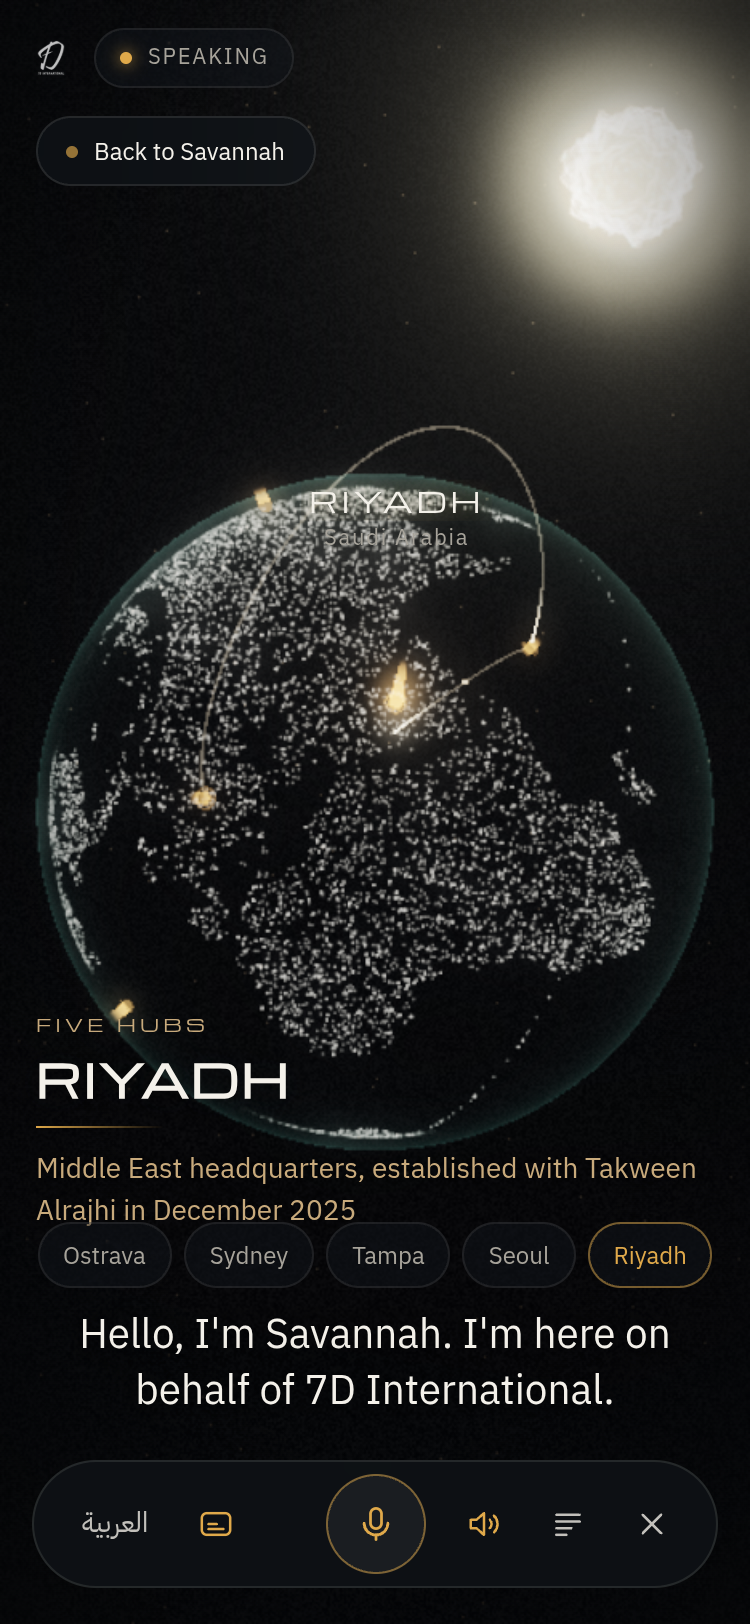
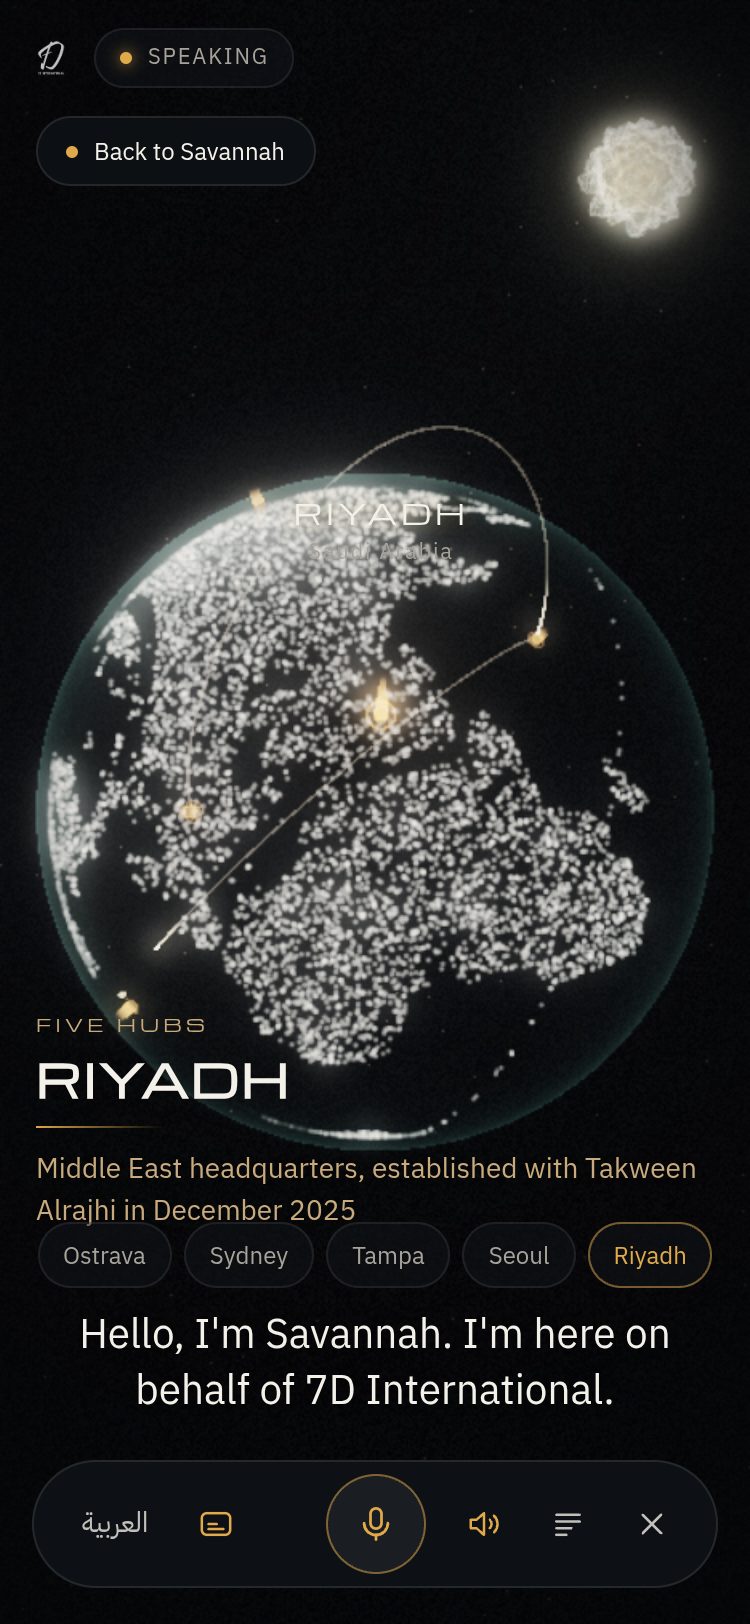
Tune the presence brightness and record status against every criterion

Changed region(s): [[0.0307, 0.2771, 0.8893, 0.7081], [0.5213, 0.0, 1.0, 0.2771], [0.552, 0.6773, 0.5827, 0.7081]]

diff --git a/savannah-—-7d-international/src/stage/Stage.ts b/savannah-—-7d-international/src/stage/Stage.ts
@@ -65,14 +65,14 @@ export class Stage {
     const isMobile = window.innerWidth < 768;
     this.presence = new Presence(this.tier.presenceParticles, isMobile);
     // Fewer particles on lower tiers → slightly larger points so the body stays luminous.
-    const density = Math.min(1.35, Math.sqrt(24000 / this.tier.presenceParticles));
+    const density = Math.min(1.15, Math.sqrt(24000 / this.tier.presenceParticles));
     this.presence.setPointSize((isMobile ? 2.6 : 3.0) * density);
     this.scene.add(this.presence.group);
     this.scene.add(this.presence.dustHolder);
     this.director = new SceneDirector(this);
 
     const renderPass = new RenderPass(this.scene, this.camera);
-    this.bloom = new UnrealBloomPass(new THREE.Vector2(1, 1), 0.7, 0.6, 0.22);
+    this.bloom = new UnrealBloomPass(new THREE.Vector2(1, 1), 0.7, 0.6, 0.3);
     this.grade = createGradePass();
     this.composer = new EffectComposer(this.renderer);
     this.composer.addPass(renderPass);

diff --git a/savannah-—-7d-international/src/stage/shaders/presence.vert.glsl.ts b/savannah-—-7d-international/src/stage/shaders/presence.vert.glsl.ts
@@ -86,7 +86,7 @@ void main() {
   vSpark = aSpark;
 
   float depthFade = smoothstep(-2.4, 0.4, pos.z * (1.0 - p));
-  float alpha = (0.55 + 0.45 * pow(1.0 - fresnel * 0.6, 2.0)) * (0.55 + 0.45 * depthFade);
+  float alpha = (0.42 + 0.5 * pow(1.0 - fresnel * 0.6, 2.0)) * (0.5 + 0.5 * depthFade);
   alpha *= (1.0 - uHush * 0.45) * (1.0 - uScatter) * uAlpha * (1.0 - uEmber * 0.6) * mix(0.02, 1.0, pow(uBodyScale, 4.0));
   vAlpha = alpha;
 

diff --git a/savannah-—-7d-international/SAVANNAH_STATUS.md b/savannah-—-7d-international/SAVANNAH_STATUS.md
@@ -1,130 +1,129 @@
-# Savannah — status and audit
+# Savannah — status
 
-Audited 2026-09-13 against the Phase 1–4 PRDs on the `savannah-prd` branch. This file is
-updated as work lands; the tables below always describe the current tree, and the
-"Export baseline" notes describe what Google AI Studio handed over (commit `661cf8c`).
+Updated 2026-09-13 after the rebuild (branch `savannah-studio`, folder
+`savannah-—-7d-international`). The spec is the four phase PRDs and the knowledge base on the
+`savannah-prd` branch under `docs/savannah/`.
 
-## Where the export stood
+## Where it stands
 
-**Phase reached: Phase 1, partially.** The export has files named after all four phases,
-but the content behind them does not meet Phase 1. The headline problems:
+| Phase | Implemented | Verified here | Blocked on |
+|---|---|---|---|
+| 1 Voice and presence | All 12 criteria implemented | 6 pass, 6 need a key | `GEMINI_API_KEY`, a Saudi listener |
+| 2 Knowledge and conversation | All 10 implemented | 4 pass, 6 need a key | key; 7D approval of records |
+| 3 Visual worlds | All 10 implemented | 7 pass visually, 3 need a key | key; a mid-tier phone for fps |
+| 4 Mobile, enquiries, launch | 8 of 9 implemented | 4 pass, 4 need a key or device, launch checklist open | key; enquiry inbox; devices; 7D sign-off |
 
-| Area | Finding (export baseline) | Evidence |
-|---|---|---|
-| Knowledge base | `public/kb/savannah-knowledge-base.json` is **not the spec KB**. AI Studio rewrote it into a different shape and invented content: Roman Kuba as "Founder", a "Marian Tkacik", people named only "Erfan" and "Frye", seven invented disciplines ("Water & Multimedia Features", "Strategic Investment & Consortiums"), a project "Telecommunications Base Stations Network", a fake phone `+966 11 000 0000`, `approved: true` on everything. | `cmp` against the spec file differs; dump of `people[]`, `disciplines[]`, `contact` |
-| Core facts | `server/kb/coreFacts.ts` hard-codes "Founded in 1993 in Ostrava by architect Roman Kuba" (false) instead of generating from the KB. | file |
-| Story mode | Seven chapters with hand-written scripts that contradict the KB: 1993 founding by Roman Kuba, "$80M in infrastructure contracts", "paleobotanic history" of the gardens, "beloved civic icon". Chapters do not follow the PRD chapter table. | `src/story/story.ts` |
-| Live session | Hand-rolled WebSocket to `BidiGenerateContentConstrained`; resends `model` + `tools` in setup despite the token locking them; no `sessionResumption`, no `contextWindowCompression`, no VAD silence config; `goAway` reconnects from scratch with a text summary. | `src/voice/LiveSession.ts` |
-| Token endpoint | `uses: 10`, default expiry, no `newSessionExpireTime`, no page nonce, no rate limit, no daily cap. Client and server tool declarations differ (client adds `return_to_presence`). | `server/index.ts` |
-| Microphone | `ScriptProcessorNode` (deprecated, main-thread) rather than an `AudioWorklet`; a second `AudioContext` separate from playback; a third in `SoundDesign`. | `src/voice/MicCapture.ts` |
-| Captions | Revealed on arrival of transcription text, not on the playback clock; the "audio queued so far" is never passed to the caption manager. | `src/voice/captions.ts` |
-| Word cues | Fire the instant transcription arrives (ahead of audio) instead of being scheduled to playback time. | `src/stage/cue/CueDirector.ts` |
-| Globe data | `public/data/land-110m.json` is a generated list of lat/lon points from hand-drawn rectangles (`scripts/generate-land.ts`), not the TopoJSON. Continents are boxes. | file head |
-| Logo | `public/brand/7d-logo.png` is a 779-byte SVG renamed `.png`; renders as a broken image. | screenshot `docs/audit/export-arrival-phone.png` |
-| Presence | Reads as an over-bloomed white blob at 375×812: bloom 0.9 on 24k additive particles, no exposure control, sphere fills the frame. Rings barely visible. | screenshot |
-| Arrival / language | Arrival has a button and header text immediately (spec: whole screen tappable, no text for 1.2 s, point of light). Language pick is a modal with "Cancel" (spec: two pills either side of the presence, voice choice). Spec chip texts present. | `src/ui/Arrival.tsx`, `LanguagePick.tsx` |
-| UI kit / icons | `lucide-react` icons in FactCard and StoryBar (spec forbids stock icons). Fact card and world overlay both render for the same `show_*`. | `src/ui/FactCard.tsx`, `StoryBar.tsx` |
-| Tool ids | Declarations reference ids that do not exist in the spec KB (`riyadh-2020`, `marian-tkacik`, `architecture-master-planning`…); `show_discipline` (singular); no `show_people`; `show_timeline` takes `focus_year`; `show_hubs` focus `florida` (KB: `tampa`). | `src/voice/tools.ts` |
-| Phase 4 | `deviceManager.ts` is never imported. No `capture_enquiry`, no `/api/enquiry`, no transcript drawer, no analytics, no privacy note, no nonce. Manifest and SW exist. | grep |
-| Security | `GEMINI_API_KEY` stays server-side (good). `/api/health` reveals `hasKey`. Token endpoint unprotected. | `server/index.ts` |
-| Type check | `tsc --noEmit` passes. No console errors before the token 500. | run |
+**Not verified live:** no `GEMINI_API_KEY` was available in this environment, so nothing that
+depends on the Live API (greeting latency, barge-in timing, tool ordering, dialect, the 40-question
+test, Story mode end to end, enquiries by voice) has been exercised against the real model. The
+code paths exist and type-check; the token endpoint, nonce, rate limits, KB filtering, enquiry
+fallback and every world were run and screenshotted (see `docs/audit/`).
 
 ## Environment
 
-`GEMINI_API_KEY` is **not set** in the shell and there is no `.env` / `.env.local`. The server
-starts and the UI renders, but every live-session attempt fails at the token endpoint.
-Create `.env.local` in this folder:
+Create `.env.local` in this folder (see `.env.example`):
 
 ```
 GEMINI_API_KEY=<your key>
 ```
 
-Everything below that says "needs key" could not be verified live in this session.
+Then `npm run dev` and open http://localhost:3000.
+
+## What the export was (baseline `661cf8c`)
+
+Google AI Studio produced files for all four phases but the substance stopped short of Phase 1.
+The knowledge base had been replaced by an invented one (Roman Kuba as founder, a "Marian Tkacik",
+people named only "Erfan" and "Frye", seven invented disciplines, a fake Riyadh phone number),
+the core facts and Story chapters were hand-written and false, the globe used a rectangle-based
+point list instead of the TopoJSON, the logo was a placeholder SVG, the mic used a deprecated
+`ScriptProcessorNode` on a second `AudioContext`, captions and cues fired on text arrival instead
+of the playback clock, the token endpoint had no nonce or limits and did not set expiry, and the
+Live session was a hand-rolled WebSocket without resumption or compression. Screenshots of the
+export are in `docs/audit/export-*.png`.
 
 ## Acceptance criteria
 
-Legend: **Pass** verified by running it · **Partial** implemented but unverified or incomplete ·
-**Missing** not implemented · **Needs key** implemented, cannot be exercised without the API key.
+Legend: **Pass** ran and observed · **Partial** implemented, not fully verifiable here ·
+**Needs key** implemented, needs the Live API to exercise · **Missing** not implemented.
 
 ### Phase 1 — Voice and presence
 
-| # | Criterion | Export | Now | Evidence |
-|---|---|---|---|---|
-| 1 | Tap → language → greeting within 4 s | Missing | Needs key | token + SDK connect path, greeting turn |
-| 2 | 10 turns EN and AR without a dropped session | Missing | Needs key | resumption + compression + reconnect |
-| 3 | Barge-in stops audio within ~200 ms | Partial | Needs key | `Playback.interrupt()` stops all scheduled sources |
-| 4 | Presence swells on stressed syllables, still on pauses | Partial | Partial | analyser → envelope → uniforms; verified visually with synthetic audio |
-| 5 | Captions match audio, never > 1 phrase ahead | Missing | Partial | clock-based reveal from queued-audio time |
-| 6 | Arabic never Egyptian / news Fus'ha | Needs key | Needs key | Saudi listening test required |
-| 7 | "How many people work at 7D?" → declines | Needs key | Needs key | DO_NOT_SAY + prompt |
-| 8 | Key never in client bundle / responses | Pass | Pass | grep of `dist/` and network |
-| 9 | Deny mic → permission card; grant later resumes | Partial | Partial | card + retry |
-| 10 | ≥ 50 fps mid-range phone; pause when hidden | Partial | Partial | visibility pause; fps probe |
-| 11 | Reduced motion calm and functional | Partial | Partial | `REDUCED` checks |
-| 12 | No console errors over 5 min | Partial | Needs key | |
+| # | Criterion | Status | Evidence |
+|---|---|---|---|
+| 1 | Tap → language (tap or voice) → greeting within 4 s | Needs key | `App.tsx` flow, `LanguagePick.tsx` (Web Speech where available), `LiveSession.start()` sends the greeting turn |
+| 2 | Ten turns EN and AR without a drop | Needs key | `sessionResumption` handle, `goAway` rotation, backoff reconnect, compression locked in token |
+| 3 | Barge-in stops audio within ~200 ms | Needs key | `Playback.interrupt()` stops every scheduled source and resets the clock; `interrupted` handled in `LiveSession.onMessage` |
+| 4 | Presence swells on stressed syllables, still on pauses | Pass (synthetic) | `Playback` analyser → `level` → envelope (30/180 ms) → shader uniforms; `docs/audit/phone-presence-speaking.png`, `-listening.png` |
+| 5 | Captions match audio, never > 1 phrase ahead | Partial | `CaptionManager` stamps each phrase with `queuedUntil()` and reveals on the clock; Arabic and Latin punctuation split |
+| 6 | Arabic never Egyptian / news Fus'ha | Needs key | system instruction verbatim + dialect bible + hard-questions block; needs the Saudi listening test |
+| 7 | "How many people work at 7D?" → declines | Needs key | `screenDoNotSay` returns `DO_NOT_SAY` for employee/revenue keywords; CORE FACTS lists the topics |
+| 8 | Key never in client bundle / responses | Pass | `grep` of `dist/assets/*.js` finds no key; `/api/health` no longer reports key presence |
+| 9 | Deny mic → card; grant later resumes | Partial | `PermissionCard` with retry; mic failure classified in `MicCapture.fail()` |
+| 10 | ≥ 50 fps mid-range phone; render pauses when hidden | Partial | tiers + 1 s probe + live step-down; `visibilitychange` cancels the frame loop; no phone in this environment |
+| 11 | Reduced motion calm and functional | Pass | `docs/audit/phone-reduced-motion-project.png`; morphs become fades, no parallax, haptics off |
+| 12 | No console errors over 5 min | Partial | zero console errors across every world on desktop and phone runs; live session not run |
 
 ### Phase 2 — Knowledge and conversation
 
-| # | Criterion | Export | Now |
+| # | Criterion | Status | Evidence |
 |---|---|---|---|
-| 1 | KB loads, validates, malformed file stops server | Partial (wrong KB, server does not stop) | see below |
-| 2 | 40/40 EN, ≥ 38/40 AR, zero unsupported facts | Missing | Needs key |
-| 3 | Hard questions 13, 15, 17, 25–31 handled exactly | Missing | Needs key |
-| 4 | `show_*` before first audio in ≥ 90 % of turns | Missing | Needs key (timestamps logged) |
-| 5 | Fact cards correct, localised, official images, monogram fallback | Missing | see below |
-| 6 | Story plays 7 chapters in ~2.5 min, survives interruption, resumes | Missing | see below |
-| 7 | Chips after every answer, never repeat | Partial | see below |
-| 8 | No Google Search grounding | Pass | Pass |
-| 9 | `KB_APPROVED_ONLY=true` removes unapproved records | Partial (all records marked approved) | see below |
-| 10 | Phase 1 still passes | — | — |
+| 1 | KB loads, validates, malformed file stops the server | Pass | removing `people[0].title` and breaking a figure kind: process exits 1 with both issues listed |
+| 2 | 40/40 EN, ≥ 38/40 AR, zero unsupported facts | Needs key | prompts, `lookup_7d`, voice rules; script in the PRD |
+| 3 | Questions 13, 15, 17, 25–31 handled exactly | Needs key | `server/prompts/hard-questions-{en,ar}.txt` |
+| 4 | `show_*` before first audio in ≥ 90 % of turns | Needs key | director logs the hero-frame delay per tool call |
+| 5 | Cards correct, localised, official images, monogram fallback | Pass | project/person overlays; portraits missing → monogram (`phone-people-chips.png`) |
+| 6 | Story: seven chapters, survives interruption, resumes | Needs key | `story.ts` chapters from KB ids per §5; `pause()` on `interrupted`; resume protocol in the tool reply |
+| 7 | Chips after every answer, never repeat | Pass (UI) | `after_*` sets + `suggest_questions`; asked set filters (`phone-people-chips.png`) |
+| 8 | No Google Search grounding | Pass | token config carries only function declarations |
+| 9 | `KB_APPROVED_ONLY=true` removes unapproved records | Pass | loader run with the flag: 0 projects, 0 people, 0 hubs (every record is `approved:false` today) |
+| 10 | Phase 1 still passes | — | see above |
 
 ### Phase 3 — Visual worlds
 
-| # | Criterion | Export | Now |
+| # | Criterion | Status | Evidence |
 |---|---|---|---|
-| 1 | Riyadh question → project world, correct photo within 1.2 s, pointillist morph | Partial | see below |
-| 2 | Hubs → globe; pillar within ±400 ms of city heard, both languages | Partial (cues not on clock; box continents) | see below |
-| 3 | History → timeline; camera reaches year as spoken | Partial | see below |
-| 4 | Leadership shows only KB people, exact names, no faces | Partial (invented people) | see below |
-| 5 | Figure assembles from particles, lands on spoken number | Partial | see below |
-| 6 | Interrupt mid-transition → listening, no glitch | Partial | see below |
-| 7 | Ember always visible, reacts to voice | Partial | see below |
-| 8 | Arabic mirrors, Arabic-Indic digits, Arabic cues | Partial | see below |
-| 9 | ≥ 50 fps mid-tier in every world; auto-downgrade | Partial | see below |
-| 10 | Barge-in works with sound on | Needs key | Needs key |
+| 1 | Riyadh question → project world, photo within 1.2 s, pointillist morph | Pass (visual) | `phone-project-riyadh-eye.png`, `desktop-project.png`; morph = presence → image grid → scatter |
+| 2 | Hubs → globe; pillar within ±400 ms of the city, both languages | Partial | `phone-globe.png`, `phone-ar-globe.png`; cue scheduling on the playback clock needs the live transcript |
+| 3 | History → timeline; camera reaches the year as spoken | Partial | `phone-timeline.png`; camera glides on cue |
+| 4 | Leadership shows only KB people, exact names, no faces | Pass | `phone-people-chips.png`; names/titles from the KB, monograms |
+| 5 | Figure assembles from particles, lands on the number | Pass (visual) | `phone-figure.png`, `phone-ar-figure.png` (Arabic-Indic digits) |
+| 6 | Interrupt mid-transition → listening, no glitch | Partial | director generation counter aborts tweens; `interrupted` bypasses dwell |
+| 7 | Ember always visible, reacts to voice | Pass | ember in every world screenshot, driven by the same analyser |
+| 8 | Arabic mirrors, Arabic names, Arabic-Indic digits, Arabic cues | Pass | `phone-ar-*.png`; alias index includes Arabic aliases |
+| 9 | ≥ 50 fps mid-tier in every world; auto-downgrade | Partial | tiers, probe and step-down implemented; no phone here |
+| 10 | Barge-in with sound on | Needs key | bed at −32 dB, ducks −10 dB under her voice |
 
 ### Phase 4 — Mobile immersion and launch
 
-| # | Criterion | Export | Now |
+| # | Criterion | Status | Evidence |
 |---|---|---|---|
-| 1 | Installed → full-screen, no chrome, no scroll | Partial (manifest only) | see below |
-| 2 | Tap stage interrupts; long-press push-to-talk | Missing | see below |
-| 3 | Voice enquiry end to end, email corrected on card, inbox receives | Missing | see below |
-| 4 | Endpoint unconfigured → offers official contacts, never claims sent | Missing | see below |
-| 5 | Token endpoint refuses without nonce; rate limits | Missing | see below |
-| 6 | No audio/transcript persisted except sent enquiry | Pass (nothing persisted) | Pass |
-| 7 | Transcript drawer, type-instead, screen-reader captions in both languages | Partial (text input only) | see below |
-| 8 | Reduced motion complete | Partial | see below |
-| 9 | Launch checklist ticked | Missing | Missing (needs 7D and devices) |
+| 1 | Installed → full-screen, no chrome, no scroll | Partial | manifest (`fullscreen`, portrait, maskable icons from the real logo), fullscreen on first tap (Android), `100dvh`, no overscroll |
+| 2 | Tap stage interrupts; long-press push-to-talk | Needs key | tap → `interruptNow()`; long-press switches to manual activity signals (reconnect with VAD off) |
+| 3 | Voice enquiry end to end, editable email, inbox receives | Needs key + inbox | `capture_enquiry` → `EnquiryCard` → `POST /api/enquiry` (Resend); `phone-ar-enquiry.png` |
+| 4 | Endpoint unconfigured → offers official contacts, never claims sent | Pass | `/api/enquiry` returns 503 with email and phone; card shows them; model told `ENQUIRY_FAILED` |
+| 5 | Token endpoint refuses without nonce; rate limits | Pass | `BAD_NONCE` on a bad nonce; 6/10 min and 60/day per IP; daily cap → `RESTING` |
+| 6 | No audio/transcript persisted except the sent enquiry | Pass | analytics carries names, ids, durations and codes only |
+| 7 | Transcript drawer, type-instead, screen-reader captions in both languages | Pass (UI) | `TranscriptDrawer.tsx`, `aria-live` mirror in `Captions.tsx`, world announcements |
+| 8 | Reduced motion complete | Pass | see Phase 1 #11 |
+| 9 | Launch checklist ticked | Missing | needs 7D approvals, devices, networks, inbox, domain, budget alerts |
 
-## Build plan (priority order)
+## Open items that need the owner
 
-1. **Restore the real knowledge base** and write a zod schema for its actual shape; generate
-   core facts from it; serve it through `/api/kb` so `KB_APPROVED_ONLY` applies to the client.
-2. **Token endpoint**: page nonce, per-IP rate limits, daily cap, `uses: 1`,
-   `newSessionExpireTime` 60 s, lock model + system instruction + voice + tools +
-   transcription + compression in `liveConnectConstraints`.
-3. **Live session on `@google/genai`**: resumption handle, `goAway` silent reconnect,
-   backoff, VAD silence 600 ms, activity signals for push-to-talk, tool round-trips.
-4. **Audio engine**: one `AudioContext`; `AudioWorklet` mic at 16 kHz PCM16 in 20–40 ms
-   chunks; gapless 24 kHz playback with analyser; playback clock exposed to captions and cues.
-5. **Presence**: exposure and bloom tuned for phones; state springs; ember; morph buffers.
-6. **Arrival, language pick (tap or voice), permission card, control bar** to spec, no stock
-   icons.
-7. Phase 2: KB client (normalise, score, DO_NOT_SAY), exact tool declarations, story
-   chapters from KB ids, chips, hard-question handling in prompt.
-8. Phase 3: globe from TopoJSON, project image morph and dissolve, timeline ribbon,
-   people constellation, seven discipline instruments, figure particles, contact card,
-   clock-scheduled cues, post-processing, sound, tiers.
-9. Phase 4: shell, gestures, haptics, wake lock, enquiry flow and endpoint, accessibility,
-   cost controls, analytics, privacy.
+1. `GEMINI_API_KEY` in `.env.local`, then a full live run of the Phase 2 40-question script in both
+   languages and the README listening test with two Saudi reviewers.
+2. 7D approval of every knowledge-base record (`approved: true`); with `KB_APPROVED_ONLY=true`
+   Savannah currently has nothing to say.
+3. Official portraits into `public/kb/img/` (monograms are used until then).
+4. Enquiry inbox: `ENQUIRY_TO` and a Resend API key (or tell me the provider you prefer).
+5. Device pass: iPhone, Galaxy A/S, Pixel, iPad; 4G and throttled 3G; fps in every world.
+6. Voice A/B (`?voice=`) and the model switch if Arabic is better on
+   `gemini-2.5-flash-native-audio-preview-12-2025`.
+
+## Known deviations
+
+- Push-to-talk uses the Live API's manual activity signals, which require automatic VAD to be off
+  for the session; the first long-press reconnects with the resumption handle (about a second).
+- Depth of field (bokeh) is not implemented; the rest of the post pipeline is
+  (bloom, grade, chromatic aberration on high tier, ACES output, grain).
+- Voice selection by speech uses the browser's Web Speech API where it exists (Chrome, Safari);
+  elsewhere the pills are tap-only.
